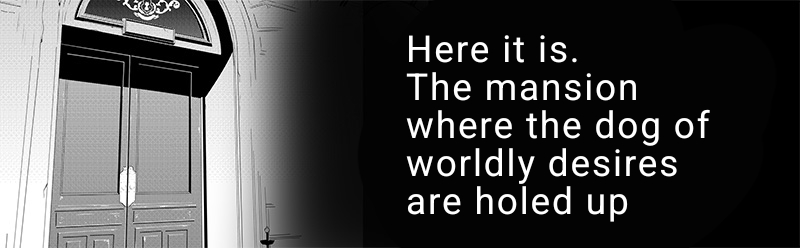
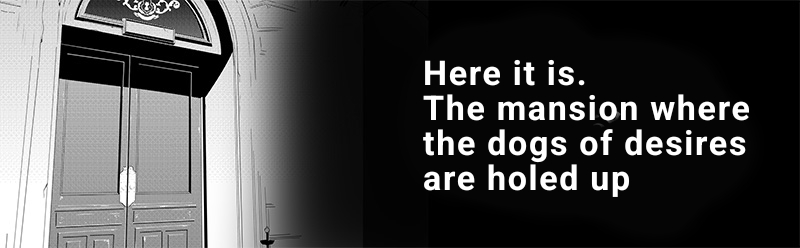
d

Changed region(s): [[0.5, 0.1411, 0.9375, 0.9032]]

diff --git a/af/index.html b/af/index.html
@@ -23,7 +23,7 @@
 </script>
 <meta property="og:title" content="「Maid by Rabbits」公式サイト">
 <meta property="og:site_name" content="「Maid by Rabbits」公式サイト">
-<meta property="og:description" content="ここですね…　worldly desiresの犬たちが立てこもるmansionは…">
+<meta property="og:description" content="ここですね…　desiresの犬たちが立てこもるmansionは…">
 <meta property="og:type" content="website">
 <meta property="og:url" content="https://gochiusa.com/af/">
 <meta property="og:image" content="https://gochiusa.com/af/core_sys/images/others/ogp.jpg">
@@ -227,7 +227,7 @@ $(function() {
       </div>
       <div class="first__button">
         <button @click="$emit('next-page',  isClear ? 'ClearTitlePage' : 'TitlePage')" class="doorBtn">
-          <span class="doorBtn__text">Dispel worldly desires</span>
+          <span class="doorBtn__text">Dispel desires</span>
           <img :src="images.door">
         </button>
         <p>Please note that audio will be played.</p>
@@ -252,7 +252,7 @@ $(function() {
         <div class="title__bg"><img :src="images.title"></div>
         <div class="title__button">
           <button @click="$emit('next-page', 'OpeningPage')" class="doorBtn">
-            <span class="doorBtn__text">Dispel worldly desires</span>
+            <span class="doorBtn__text">Dispel desires</span>
             <img :src="images.door">
           </button>
         </div> 
@@ -382,10 +382,10 @@ $(function() {
           <img :src="'core_sys/images/main/result/'+currentResult.chara+'.jpg'"> 
         </div>
         <div class="result__info">
-          <em>worldly desires</em> has been moved to <em>the hall</em>.
+          <em>desires</em> has been moved to <em>the hall</em>.
           <div class="result-btns">
             <button @click="$emit('next-page', 'HiromaPage')" class="doorBtn_h">Go to hall</button>
-            <button @click="$emit('next-page', 'PhotoPage')" class="doorBtn_h -photo">Dispel worldly desires</button>
+            <button @click="$emit('next-page', 'PhotoPage')" class="doorBtn_h -photo">Dispel desires</button>
           </div>
         </div>
       </div>
